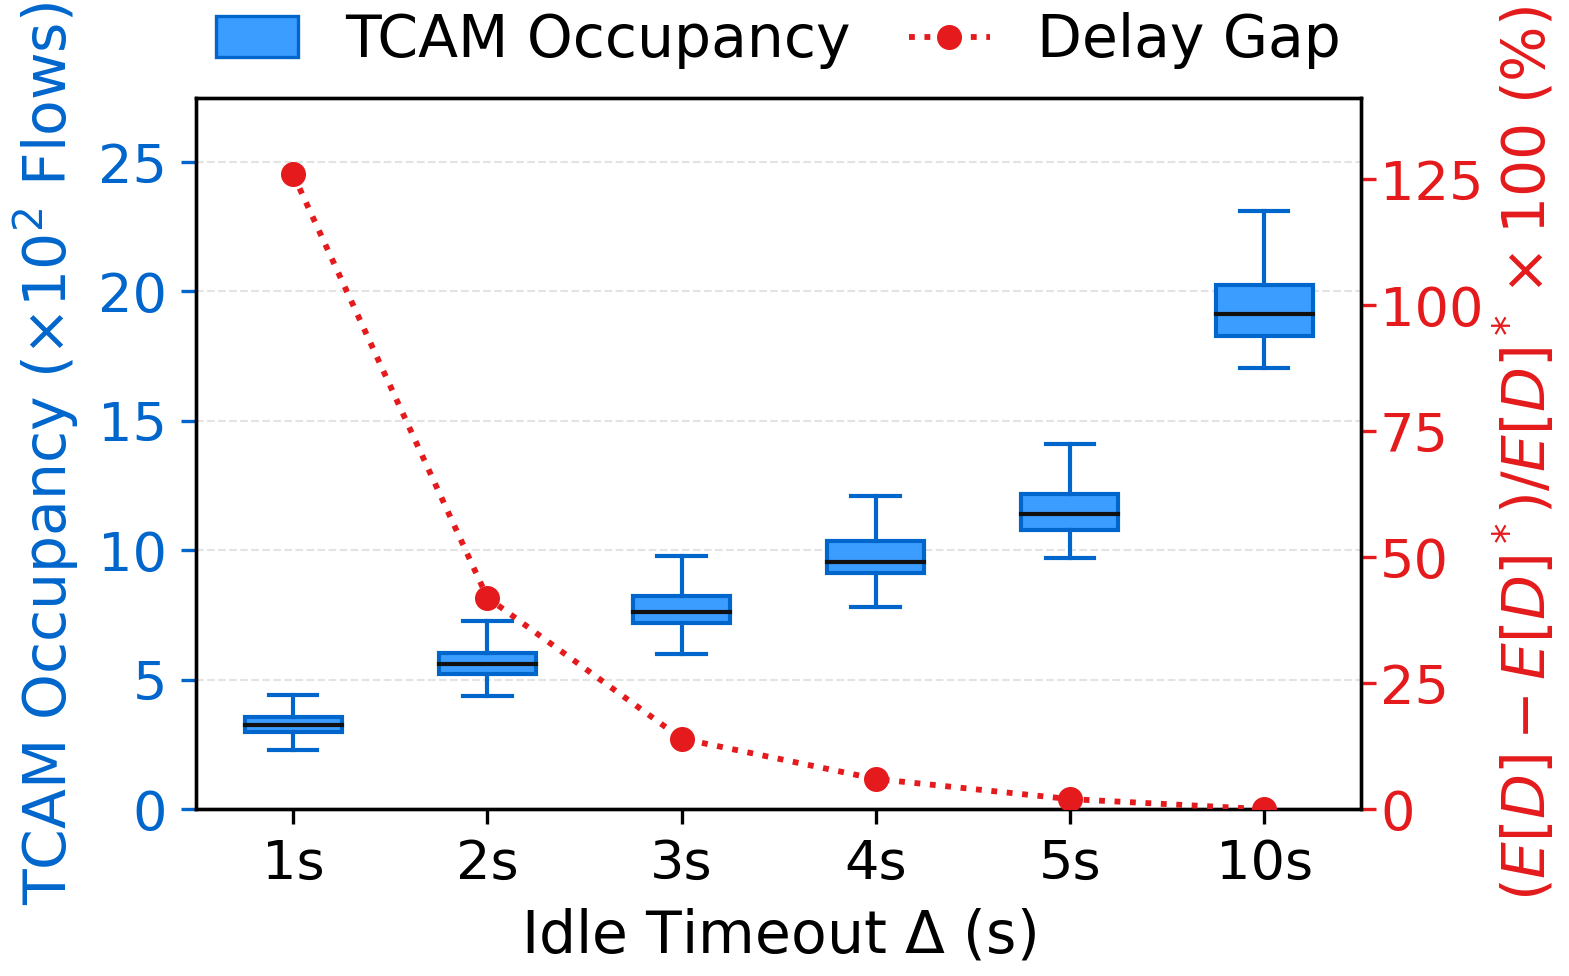
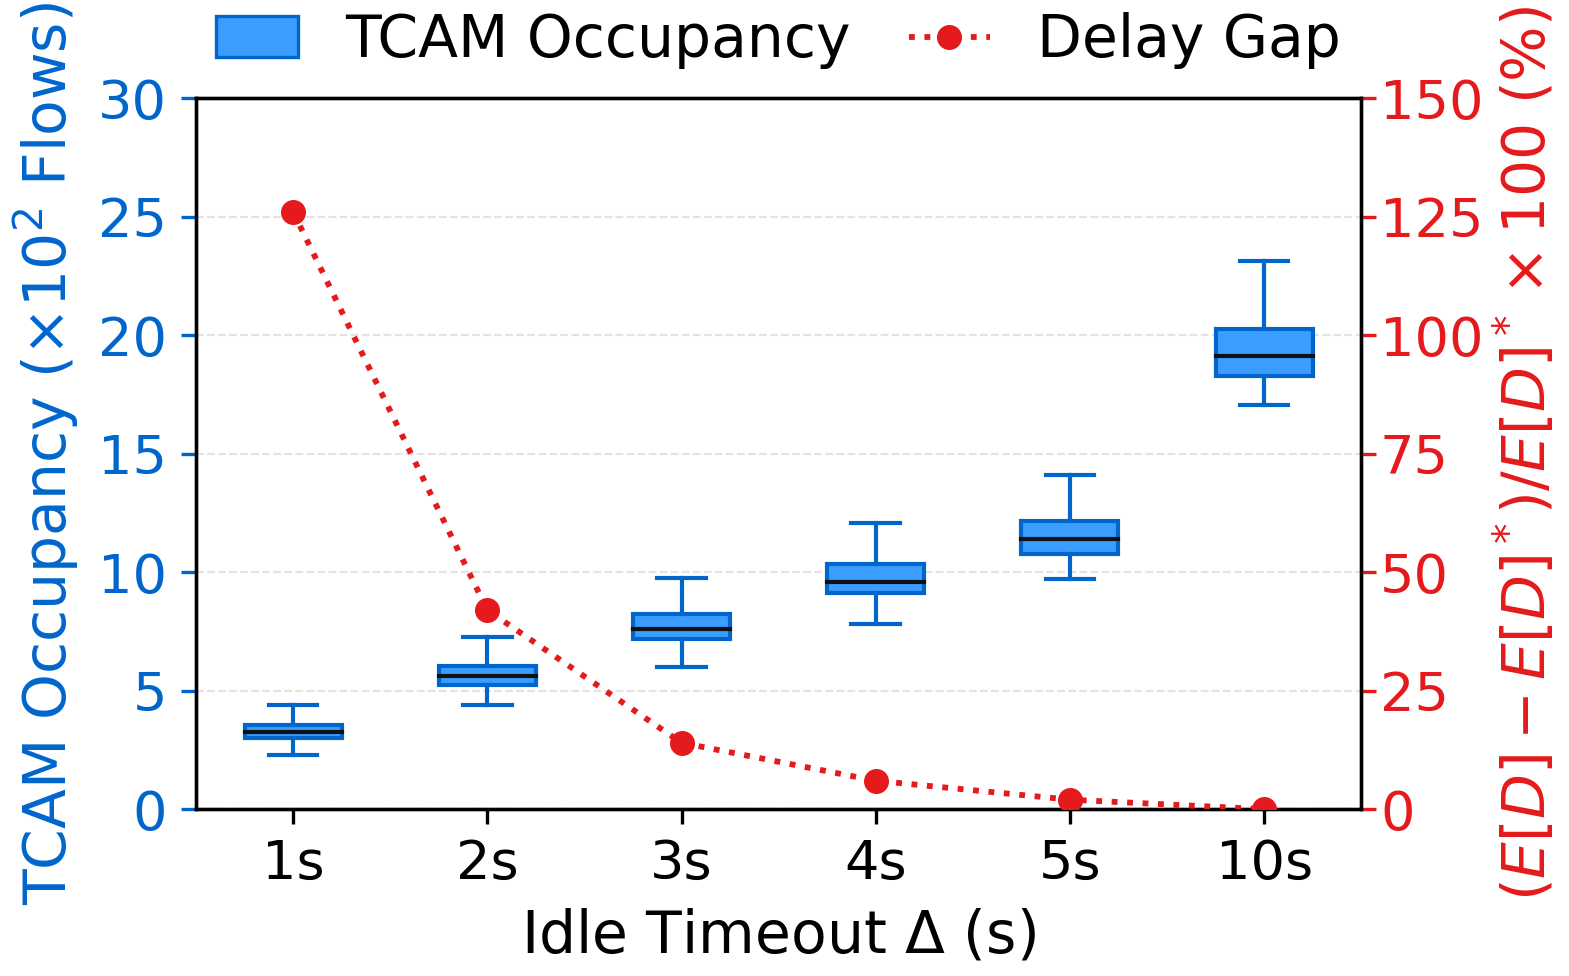
fixed figure

diff --git a/idle_timeout_and_TCAM_occupancy_tradeoff_experiment/scripts/plot_tcam_idle_timeout_comparison.py b/idle_timeout_and_TCAM_occupancy_tradeoff_experiment/scripts/plot_tcam_idle_timeout_comparison.py
@@ -37,14 +37,34 @@ DELAY_AXIS_COLOR = "#E41A1C"
 FONT_TITLE = 14
 FONT_LABEL = 14
 FONT_TICK = 13
+OCCUPANCY_TICK_STEP = 5
+DELAY_GAP_TICK_STEP = 25  # 5× occupancy step so ticks align (25 ↔ 125%)
+DELAY_GAP_AXIS_RATIO = DELAY_GAP_TICK_STEP / OCCUPANCY_TICK_STEP
 FONT_LEGEND = 14
+
+
+def paired_axis_limits(data_peak: float, delay_gap_peak: float) -> tuple[float, float]:
+    """Pick shared 0–top limits so left/right tick marks line up (25 ↔ 125%, etc.)."""
+    occ_ymax = float(
+        np.ceil(max(data_peak, delay_gap_peak / DELAY_GAP_AXIS_RATIO) / OCCUPANCY_TICK_STEP)
+        * OCCUPANCY_TICK_STEP
+    )
+    gap_ymax = occ_ymax * DELAY_GAP_AXIS_RATIO
+    return occ_ymax, gap_ymax
 
 
 def style_occupancy_yaxis(ax, ymax: float) -> None:
     ax.set_ylabel(OCCUPANCY_YLABEL, fontsize=FONT_LABEL, color=OCCUPANCY_AXIS_COLOR)
     ax.tick_params(axis="y", labelsize=FONT_TICK, colors=OCCUPANCY_AXIS_COLOR)
     ax.set_ylim(0, ymax)
-    ax.yaxis.set_major_locator(MultipleLocator(5))
+    ax.yaxis.set_major_locator(MultipleLocator(OCCUPANCY_TICK_STEP))
+
+
+def style_delay_gap_yaxis(ax, ymax: float) -> None:
+    ax.set_ylabel(DELAY_YLABEL, fontsize=FONT_LABEL, color=DELAY_AXIS_COLOR, labelpad=2)
+    ax.tick_params(axis="y", labelsize=FONT_TICK, colors=DELAY_AXIS_COLOR, pad=1)
+    ax.set_ylim(0, ymax)
+    ax.yaxis.set_major_locator(MultipleLocator(DELAY_GAP_TICK_STEP))
 
 
 def gap_to_optimal_delay_pct(delay_s: float) -> float:
@@ -105,7 +125,8 @@ def plot_comparison(
     delay_gap_pct = [gap_to_optimal_delay_pct(d) for d in delays]
 
     box_peak = max(v for series in box_data for v in series)
-    occ_ymax = box_peak * 1.08
+    gap_peak = max(delay_gap_pct) if delay_gap_pct else 0.0
+    occ_ymax, gap_ymax = paired_axis_limits(box_peak, gap_peak)
 
     ax_box.set_xlabel("Idle Timeout $\\Delta$ (s)", fontsize=FONT_LABEL)
     style_occupancy_yaxis(ax_box, occ_ymax)
@@ -114,7 +135,6 @@ def plot_comparison(
     ax_box.set_axisbelow(True)
 
     ax_gap = ax_box.twinx()
-    gap_max = max(max(delay_gap_pct) * 1.12, 5) if delay_gap_pct else 5
     ax_gap.plot(
         x,
         delay_gap_pct,
@@ -127,9 +147,7 @@ def plot_comparison(
         linestyle=":",
         zorder=3,
     )
-    ax_gap.set_ylabel(DELAY_YLABEL, fontsize=FONT_LABEL, color=DELAY_AXIS_COLOR, labelpad=2)
-    ax_gap.tick_params(axis="y", labelsize=FONT_TICK, colors=DELAY_AXIS_COLOR, pad=1)
-    ax_gap.set_ylim(0, gap_max)
+    style_delay_gap_yaxis(ax_gap, gap_ymax)
 
     legend_handles = [
         Patch(
@@ -165,6 +183,9 @@ def plot_comparison(
         labelspacing=0.2,
     )
     fig.tight_layout()
+    # Re-apply paired limits after layout so twin-axis ticks stay aligned (25 ↔ 125%, etc.).
+    style_occupancy_yaxis(ax_box, occ_ymax)
+    style_delay_gap_yaxis(ax_gap, gap_ymax)
 
     output_path.parent.mkdir(parents=True, exist_ok=True)
     fig.savefig(output_path, dpi=300, bbox_inches="tight", pad_inches=0.04)